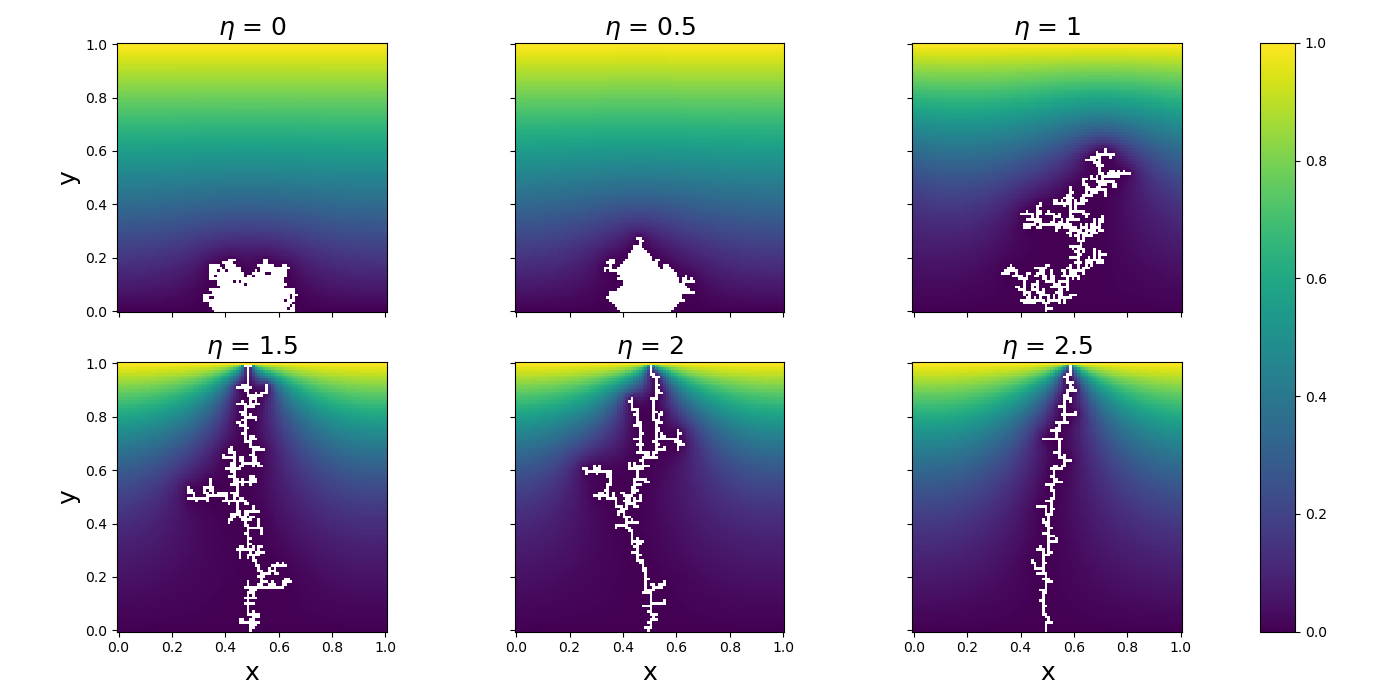
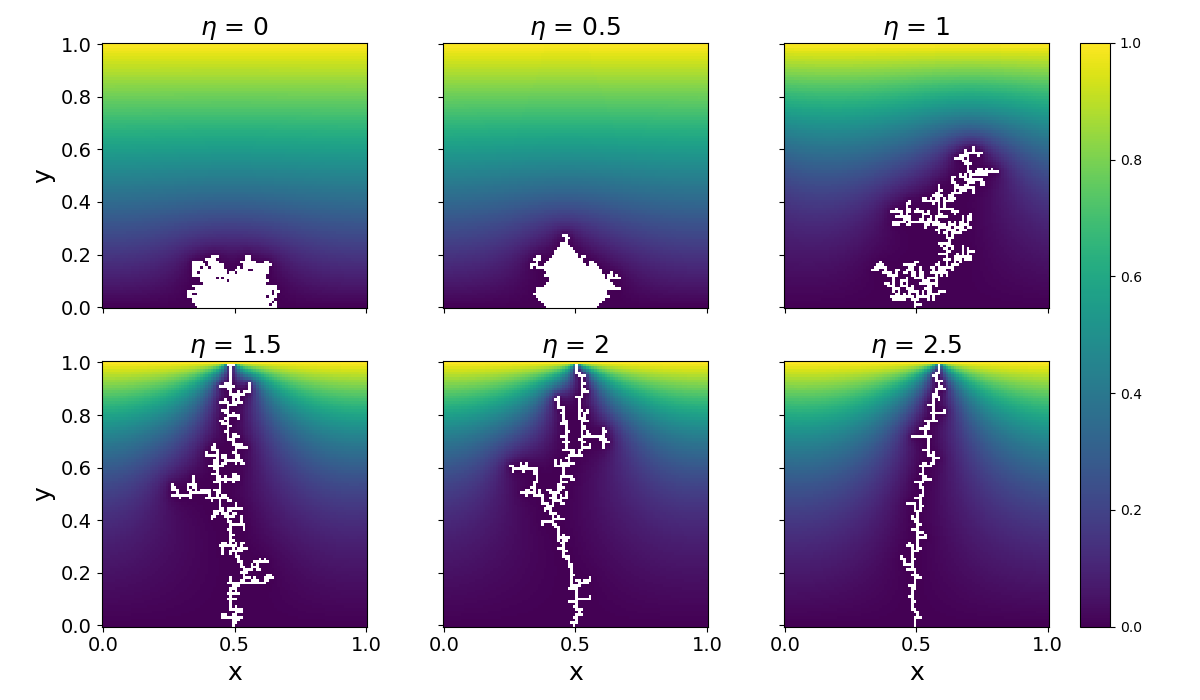
Add final version + optimal omega

diff --git a/set2/dla/results.py b/set2/dla/results.py
@@ -18,7 +18,7 @@ etas = [0, 0.5, 1, 1.5, 2, 2.5]
 color = matplotlib.cm.get_cmap('viridis').copy()
 color.set_bad('white')
 yy, xx = np.meshgrid(np.linspace(1,0, N), np.linspace(1,0,N))
-'''
+
 def animate(i):
     """
     The animation function. It is called sequentially
@@ -42,7 +42,7 @@ for eta in etas:
 
     anim = animation.FuncAnimation(fig, animate, frames=int(len(data)//N), interval=50)
     anim.save('figures/dla_%s.gif'%int(eta*10))
-'''
+
 # Plot the final state of the growth model
 data_0_0 = np.loadtxt('data/data_0.txt')[-N:]
 data_0_5 = np.loadtxt('data/data_5.txt')[-N:]
@@ -54,13 +54,14 @@ data_2_5 = np.loadtxt('data/data_25.txt')[-N:]
 data = [data_0_0, data_0_5, data_1_0, data_1_5, data_2_0, data_2_5]
 etas = [0, 0.5, 1, 1.5, 2, 2.5]
 
-fig, axs = plt.subplots(2, 3, figsize = (14,7), sharex=True, sharey=True)
+fig, axs = plt.subplots(2, 3, figsize = (12,7), sharex=True, sharey=True)
 counter = 0
 
 for j in range(2):    
     for i in range(3):
         im = axs[j%2][i%3].pcolormesh(yy, xx, data[counter], cmap=color)
         axs[j%2][i%3].set_title('$\eta$ = %s'%etas[counter], fontsize = 18)
+        axs[j%2][i%3].tick_params(axis = 'both', labelsize = 14)
         counter += 1
 
 for ax in axs.flat:
@@ -76,3 +77,40 @@ cbar_ax = fig.add_axes([0.9, axs[1][2].get_position().y0, 0.025, axs[0][2].get_p
 
 fig.colorbar(im, cax=cbar_ax)
 plt.savefig('figures/dla_eta.png')
+
+# Finding the optimal omega
+
+etas = [0, 1, 2]
+omegas = np.linspace(1.5, 1.94, 23)
+
+tot_iter = []
+for eta in etas:
+    iterations = []
+    for omega in omegas:
+        dla = dla_model(N, seed, eta)
+        dla.solver.set_omega(omega)
+        dla.run(max_iter=100)
+        iterations.append(dla.tot_iter)
+
+    tot_iter.append(iterations)
+
+plt.figure(figsize=(14,7))
+
+plt.plot(omegas, tot_iter[0], color= 'black', label='$\eta = 0$')
+plt.plot(omegas, tot_iter[1], color= 'blue', label='$\eta = 1$')
+plt.plot(omegas, tot_iter[2], color='red', label='$\eta = 2$')
+
+plt.scatter(omegas[np.argwhere(tot_iter[0] == np.min(tot_iter[0]))], np.min(tot_iter[0]), color = 'black')
+plt.scatter(omegas[np.argwhere(tot_iter[1] == np.min(tot_iter[1]))], np.min(tot_iter[1]), color = 'blue')
+plt.scatter(omegas[np.argwhere(tot_iter[2] == np.min(tot_iter[2]))], np.min(tot_iter[2]), color = 'red')
+
+plt.grid(axis='y')
+
+plt.xticks(fontsize = 16)
+plt.yticks(fontsize = 16)
+plt.xlabel('$\omega$', fontsize = 24)
+plt.ylabel('Number of iterations', fontsize = 20)
+
+plt.legend(fontsize = 16, loc='upper right')
+plt.tight_layout()
+plt.savefig('figures/opt_omega.png')

diff --git a/set2/dla/main.py b/set2/dla/main.py
@@ -66,15 +66,10 @@ class dla_model:
         """
         # Denominator in the equation for the growth probability
         candidates = np.round(candidates, 5)
+        candidates = np.array([np.maximum(i, 0) for i in candidates])
         total = np.sum(candidates ** self.eta)
-        result = str(total)
-        if result == 'nan':
-            print(candidates)
 
         # Calculate the probabilities of all the candidates
-        result = str(candidates[0] ** self.eta)
-        if result == 'nan':
-            print(candidates[0])
         cdf = [(candidates[0] ** self.eta) / total]
         for coord in candidates[1:]:
             p = (coord ** self.eta) / total
